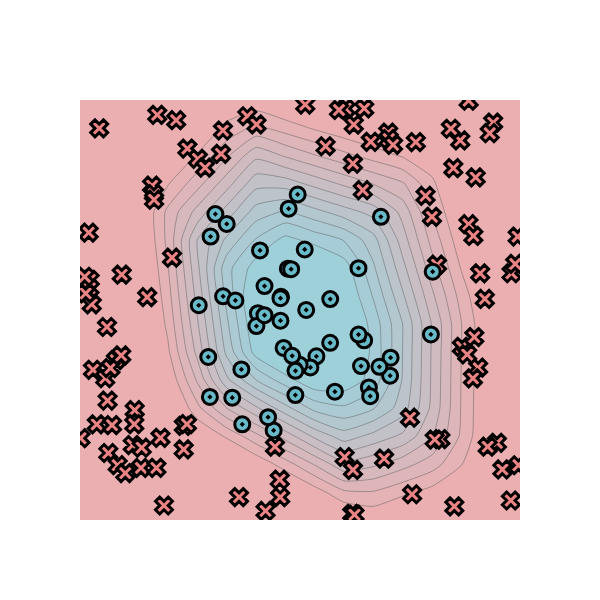
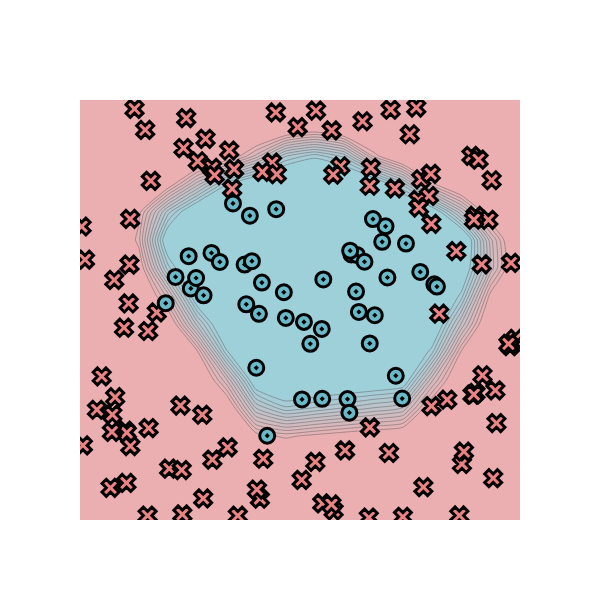
add circle dataset training logs

Changed region(s): [[0.12, 0.15, 0.87, 0.87], [0.15, 0.18, 0.18, 0.24]]

diff --git a/minitorch/tensor_ops.py b/minitorch/tensor_ops.py
@@ -41,8 +41,10 @@ class TensorOps:
     @staticmethod
     def reduce(
         fn: Callable[[float, float], float], start: float = 0.0
-    ) -> Callable[[Tensor, int], Tensor]: ...
-    """Reduce placeholder"""
+    ) -> Callable[[Tensor, int], Tensor]:
+        """Reduce placeholder"""
+        ...
+        
 
     @staticmethod
     def matrix_multiply(a: Tensor, b: Tensor) -> Tensor:

diff --git a/README.md b/README.md
@@ -78,14 +78,14 @@
 ### Circle Dataset
 #### Model Parameters
 * Number of points: 150
-* Size of hidden layer: 5
+* Size of hidden layer: 10
 * Learning rate: 0.5
 * Number of epochs: 500
 
 #### Training Result
-* Time per epoch:
-* Correct: 
-* Loss: 
+* Time per epoch: 0.718s
+* Correct: 143/150
+* Loss: 13.5430
 
 <img src="/assets/images/circle.png" width="50%">
 <img src="/assets/images/circle_loss.png" width="50%">
